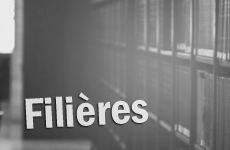
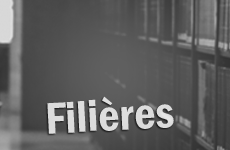
v2.0.2

diff --git a/src/dashboard.php b/src/dashboard.php
@@ -17,7 +17,8 @@ include 'connection.php';
     .top-left {
         position: absolute;
         top: 8.5%;
-        left: 31.5%;
+        left: 22.5%;
+        text-shadow: 2px 2px 2px #000000;
     }
     .col {
         position: relative;
@@ -107,12 +108,12 @@ include 'connection.php';
                     </div>
                 </div> -->
 
-                <div class="container mt-3 mb-3">
-                    <div class="text-center ">
+                 <div class="container mt-3 mb-3">
+                    <div class="text-center">
                         <div class="row">
                             <div class="col">
                                 <a href="Etudiants.php" >
-                                    <img class="img" src="../img/Dashboard/1.png" onmouseover="this.src='../img/Dashboard/2.png';" onmouseout="this.src='../img/Dashboard/1.png'"class="rounded" title="Ajouter Absences">
+                                    <img src="../img/Dashboard/1.png" onmouseover="this.src='../img/Dashboard/2.png';" onmouseout="this.src='../img/Dashboard/1.png'" class="rounded" title="Etudiants">
                                     <div class="top-left h6">
                                         <kbd>
                                             <?php
@@ -126,7 +127,7 @@ include 'connection.php';
                             </div>
                             <div class="col">
                                 <a href="Enseignant.php" >
-                                    <img src="../img/Dashboard/5.png" onmouseover="this.src='../img/Dashboard/6.png';" onmouseout="this.src='../img/Dashboard/5.png'"class="rounded" title="Consulter Absences">
+                                    <img src="../img/Dashboard/5.png" onmouseover="this.src='../img/Dashboard/6.png';" onmouseout="this.src='../img/Dashboard/5.png'" class="rounded" title="Enseignants">
                                     <div class="top-left h6">
                                         <kbd>
                                             <?php
@@ -138,11 +139,16 @@ include 'connection.php';
                                     </div>
                                 </a>
                             </div>
+                            <div class="col">
+                                <a href="Notes.php" >
+                                    <img src="../img/Dashboard/11.png" onmouseover="this.src='../img/Dashboard/12.png';" onmouseout="this.src='../img/Dashboard/11.png'" class="rounded" title="Notes">
+                                </a>
+                            </div>
                         </div><br>
                         <div class="row">
                             <div class="col">
                                 <a href="Filiere.php" >
-                                    <img class="img" src="../img/Dashboard/3.png" onmouseover="this.src='../img/Dashboard/4.png';" onmouseout="this.src='../img/Dashboard/3.png'"class="rounded" title="Ajouter Absences">
+                                    <img src="../img/Dashboard/3.png" onmouseover="this.src='../img/Dashboard/4.png';" onmouseout="this.src='../img/Dashboard/3.png'" class="rounded" title="Filères">
                                     <div class="top-left h6">
                                         <kbd>
                                             <?php
@@ -156,7 +162,7 @@ include 'connection.php';
                             </div>
                             <div class="col">
                                 <a href="Modules.php" >
-                                    <img src="../img/Dashboard/7.png" onmouseover="this.src='../img/Dashboard/8.png';" onmouseout="this.src='../img/Dashboard/7.png'"class="rounded" title="Consulter Absences">
+                                    <img src="../img/Dashboard/7.png" onmouseover="this.src='../img/Dashboard/8.png';" onmouseout="this.src='../img/Dashboard/7.png'" class="rounded" title="Modules">
                                     <div class="top-left h6">
                                         <kbd>
                                             <?php
@@ -166,6 +172,11 @@ include 'connection.php';
                                             ?>
                                         </kbd>
                                     </div>
+                                </a>
+                            </div>
+                            <div class="col">
+                                <a href="Absences.php" >
+                                    <img src="../img/Dashboard/9.png" onmouseover="this.src='../img/Dashboard/10.png';" onmouseout="this.src='../img/Dashboard/9.png'" class="rounded" title="Notes">
                                 </a>
                             </div>
                         </div>

diff --git a/src/Etudiant/afficheEtudiantsParGroup.php b/src/Etudiant/afficheEtudiantsParGroup.php
@@ -165,7 +165,7 @@ if (!empty($_GET['id_filiere'])) {
     <div class="table-responsive-sm">
         <?php
         $sql = 'SELECT cne, code_apoge,date_naissance,email,nom,prenom,id_filiere
-            FROM etudiant WHERE id_filiere=' . $_GET['id_filiere'];
+                FROM etudiant WHERE id_filiere=' . $_GET['id_filiere'];
 
         $resultat = mysqli_query($conn, $sql);
         $resultatcheck = mysqli_num_rows($resultat);
